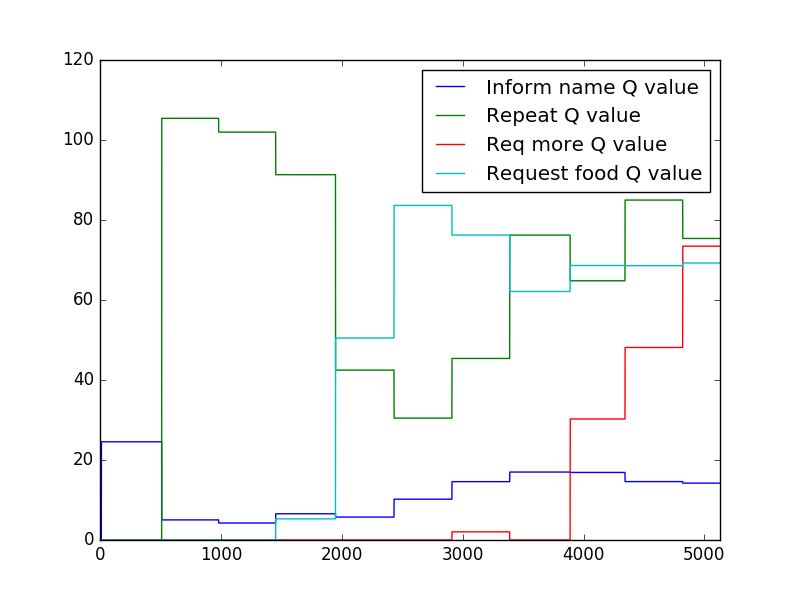
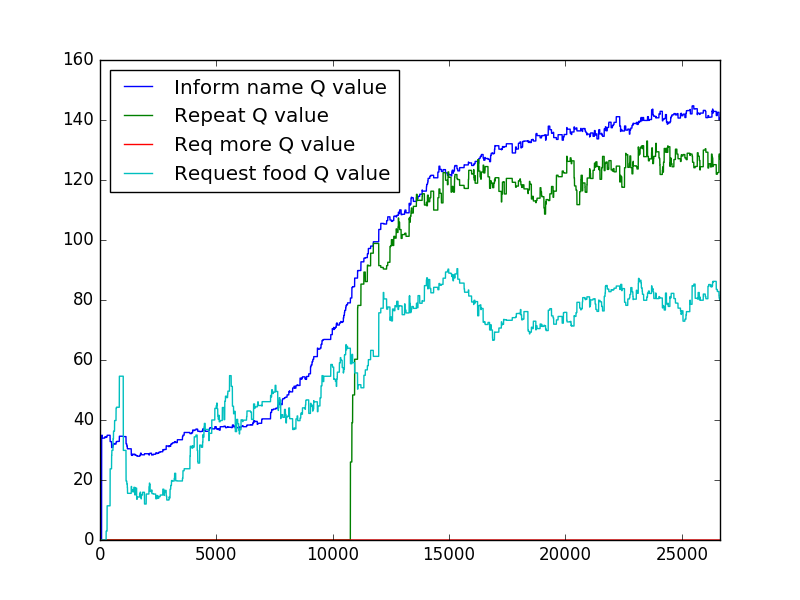
rl experiments

diff --git a/bot/agents/dqn.py b/bot/agents/dqn.py
@@ -21,19 +21,19 @@ class DoubleDQN:
 
         self.n_actions = kwargs.get('n_actions')
         self.n_features = kwargs.get('n_features')
-        self.lr = kwargs.get('learning_rate', 0.01)
-        self.gamma = kwargs.get('reward_decay', 0.9)
-        self.epsilon_max = kwargs.get('e_greedy', 1)
-        self.batch_size = kwargs.get('batch_size', 640)
+        self.lr = kwargs.get('learning_rate', 0.0001)
+        self.gamma = kwargs.get('reward_decay', 0.99)
+        self.epsilon_max = kwargs.get('e_greedy', 0.9)
+        self.batch_size = kwargs.get('batch_size', 128)
         self.memory_size = kwargs.get('memory_size', 10000)
-        self.epsilon_increment = kwargs.get('e_greedy_increment', 1e-2*2)
-        self.replace_target_iter = kwargs.get('replace_target_iter', 400)
+        self.epsilon_increment = kwargs.get('e_greedy_increment', 1e-5)
+        self.replace_target_iter = kwargs.get('replace_target_iter', 100)
         self.epsilon = 0.5
         self.learn_step_counter = 0
         self.memory_counter = 0
         self.random_state = kwargs.get('random_state')
         
-        self.double_q = kwargs.get('double_q', True)    # decide to use double q or not
+        self.double_q = kwargs.get('double_q', False)    # decide to use double q or not
         self.memory = np.zeros((self.memory_size, self.n_features*2+2))
 
         sess = kwargs.get('sess')
@@ -50,8 +50,8 @@ class DoubleDQN:
     def _build_net(self):
         def build_layers(s, w_initializer, b_initializer):
             dense = tf.layers.dense(inputs=s, units=80, activation=tf.nn.relu, kernel_initializer=w_initializer, bias_initializer=b_initializer)
-            #dense = tf.layers.dense(inputs=dense, units=150, activation=tf.nn.relu, kernel_initializer=w_initializer, bias_initializer=b_initializer)
-           # dense = tf.layers.dense(inputs=dense, units=100, activation=tf.nn.relu, kernel_initializer=w_initializer, bias_initializer=b_initializer)
+            dense = tf.layers.dense(inputs=dense, units=80, activation=tf.nn.relu, kernel_initializer=w_initializer, bias_initializer=b_initializer)
+            #dense = tf.layers.dense(inputs=dense, units=100, activation=tf.nn.relu, kernel_initializer=w_initializer, bias_initializer=b_initializer)
             dense = tf.layers.dense(inputs=dense, units=self.n_actions, activation=tf.nn.relu, kernel_initializer=w_initializer, bias_initializer=b_initializer)
             return dense
 
@@ -101,7 +101,7 @@ class DoubleDQN:
         self.memory_counter += 1
 
     def _init_replace_ops(self):
-        tau = 1
+        tau = 0.05
         tfVars = tf.trainable_variables()
         total_vars = len(tfVars)
         op_holder = []
@@ -131,40 +131,40 @@ class DoubleDQN:
 
         if self.learn_step_counter % self.replace_target_iter == 0 and self.learn_step_counter>0:
             self._replace_target_params()
-            for i in range(10):
-                if self.memory_counter > self.memory_size:
-                    sample_index = self.random_state.choice(self.memory_size, size=self.batch_size)
-                else:
-                    sample_index = self.random_state.choice(self.memory_counter, size=self.batch_size)
 
-                sample_index = list(set(sample_index))
-                batch_memory = self.memory[sample_index, :]
+        if self.memory_counter > self.memory_size:
+            sample_index = self.random_state.choice(self.memory_size, size=self.batch_size)
+        else:
+            sample_index = self.random_state.choice(self.memory_counter, size=self.batch_size)
 
-                q_next, q_eval4next = self.sess.run(
-                    [self.q_next, self.q_eval],
-                    feed_dict={self.s_: batch_memory[:, -self.n_features:],    # next observation
-                               self.s: batch_memory[:, -self.n_features:]})    # next observation
-                q_eval = self.sess.run(self.q_eval, {self.s: batch_memory[:, :self.n_features]})
+        sample_index = list(set(sample_index))
+        batch_memory = self.memory[sample_index, :]
 
-                q_target = q_eval.copy()
+        q_next, q_eval4next = self.sess.run(
+            [self.q_next, self.q_eval],
+            feed_dict={self.s_: batch_memory[:, -self.n_features:],    # next observation
+                       self.s: batch_memory[:, -self.n_features:]})    # next observation
+        q_eval = self.sess.run(self.q_eval, {self.s: batch_memory[:, :self.n_features]})
 
-                eval_act_index = batch_memory[:, self.n_features].astype(int)
-                reward = batch_memory[:, self.n_features + 1]
+        q_target = q_eval.copy()
 
-                if self.double_q:
-                    max_act4next = np.argmax(q_eval4next, axis=1)        # the action that brings the highest value is evaluated by q_eval
-                    selected_q_next = q_next[np.arange(q_target.shape[0]), max_act4next]  # Double DQN, select q_next depending on above actions
-                else:
-                    selected_q_next = np.max(q_next, axis=1)    # the natural DQN
+        eval_act_index = batch_memory[:, self.n_features].astype(int)
+        reward = batch_memory[:, self.n_features + 1]
 
-                q_target[np.arange(q_target.shape[0]), eval_act_index] = reward + self.gamma * selected_q_next
+        if self.double_q:
+            max_act4next = np.argmax(q_eval4next, axis=1)        # the action that brings the highest value is evaluated by q_eval
+            selected_q_next = q_next[np.arange(q_target.shape[0]), max_act4next]  # Double DQN, select q_next depending on above actions
+        else:
+            selected_q_next = np.max(q_next, axis=1)    # the natural DQN
 
-                _, self.cost = self.sess.run([self._train_op, self.loss],
-                                             feed_dict={self.s: batch_memory[:, :self.n_features],
-                                                        self.q_target: q_target})
-                self.cost_his.append(self.cost)
+        q_target[np.arange(q_target.shape[0]), eval_act_index] = reward + self.gamma * selected_q_next
 
-            self.epsilon = self.epsilon + self.epsilon_increment if self.epsilon < self.epsilon_max else self.epsilon_max
+        _, self.cost = self.sess.run([self._train_op, self.loss],
+                                     feed_dict={self.s: batch_memory[:, :self.n_features],
+                                                self.q_target: q_target})
+        self.cost_his.append(self.cost)
+
+        self.epsilon = self.epsilon + self.epsilon_increment if self.epsilon < self.epsilon_max else self.epsilon_max
         self.learn_step_counter += 1
 
     def save(self, filepath):

diff --git a/bot/agents/rl_agent.py b/bot/agents/rl_agent.py
@@ -159,31 +159,31 @@ class RLAgent(Agent):
             variants = self.content_manager.available_results(self.inform_slots, self.slot_restrictions)
 
         result = []
-        for i in range(1, 2):
-            history = self.history[-i] if len(self.history)>=i else None
-
-            last_user_actions = [] if history is None else history['user_action']
-            last_agent_actions = [] if history is None else history['agent_action']
-
-            user_acts = [[action for action, slot_name, slot_value in last_user_actions], 'user_act']
-            user_act_slots = [[action +('_'+slot_name if slot_name is not None else '') for action, slot_name, slot_value in last_user_actions], 'user_act_slots']
-            agent_acts = [[action for action, slot_name, slot_value in last_agent_actions], 'agent_act']
-            agent_act_slots = [[action +('_'+slot_name if slot_name is not None else '') for action, slot_name, slot_value in last_agent_actions], 'agent_act_slots']
-
-            for data, binarizer_name in [user_acts, user_act_slots, agent_acts, agent_act_slots]:
-                if len(data)==0:
-                    data.append('empty')
-                result.extend(np.max(self.binarizers[binarizer_name].transform(data), axis=0))
-
-            # Last agent action full
-            if i==1:
-                action_full = '__'.join(agent_act_slots[0])
-                action_full_features = list(range(len(self.binarizers['agent_act_full'])))
-                if action_full in self.binarizers['agent_act_full']:
-                    action_full_features[self.binarizers['agent_act_full'][action_full]] = 1
-
-                result.extend(action_full_features)
-
+        # for i in range(1, 2):
+        #     history = self.history[-i] if len(self.history)>=i else None
+        #
+        #     last_user_actions = [] if history is None else history['user_action']
+        #     last_agent_actions = [] if history is None else history['agent_action']
+        #
+        #     user_acts = [[action for action, slot_name, slot_value in last_user_actions], 'user_act']
+        #     user_act_slots = [[action +('_'+slot_name if slot_name is not None else '') for action, slot_name, slot_value in last_user_actions], 'user_act_slots']
+        #     agent_acts = [[action for action, slot_name, slot_value in last_agent_actions], 'agent_act']
+        #     agent_act_slots = [[action +('_'+slot_name if slot_name is not None else '') for action, slot_name, slot_value in last_agent_actions], 'agent_act_slots']
+        #
+        #     for data, binarizer_name in [user_acts, user_act_slots, agent_acts, agent_act_slots]:
+        #         if len(data)==0:
+        #             data.append('empty')
+        #         result.extend(np.max(self.binarizers[binarizer_name].transform(data), axis=0))
+        #
+        #     # Last agent action full
+        #     if i==1:
+        #         action_full = '__'.join(agent_act_slots[0])
+        #         action_full_features = list(range(len(self.binarizers['agent_act_full'])))
+        #         if action_full in self.binarizers['agent_act_full']:
+        #             action_full_features[self.binarizers['agent_act_full'][action_full]] = 1
+        #
+        #         result.extend(action_full_features)
+        #
         constraint_slots = [list(self.inform_slots.keys()), 'user_constraint_slots']
         user_request_slots = [list(self.request_slots), 'user_request_slots']
         proposed_slots = [list(self.proposed_slots.keys()), 'all_slots']
@@ -235,8 +235,9 @@ class RLAgent(Agent):
     def reward(self, user_actions, user_state):
         if user_state['done']:
             if user_state['failed']:
-                return 0
-            return 0
+                return -100
+
+            return 30
 
         state_turn_begin = self.history[-1]['agent_state']
         user_requested_slot_failed = len([s for s in state_turn_begin['request_slots'] if s not in self.last_inform_slots()])>0 and 'name' in state_turn_begin['proposed_slots']
@@ -246,7 +247,7 @@ class RLAgent(Agent):
             result = -5
             #print('user_requested_slot_failed')
 
-        result -= len(user_state['error_slots']) * 20
+        #result -= len(user_state['error_slots']) * 20
 
         #reqalts_exists = any([a[0] == 'reqalts' for a in user_actions])
         #if reqalts_exists:
@@ -254,7 +255,7 @@ class RLAgent(Agent):
 
         for action, slot_name, slot_value in user_actions:
             act_slot = action + ('_' + slot_name if slot_name is not None else '')
-            result -= self.user_act_slot_dict[act_slot]*2
+            result -= self.user_act_slot_dict[act_slot]*5
 
         return result
 

diff --git a/bot/usersims/sl_usersim.py b/bot/usersims/sl_usersim.py
@@ -244,7 +244,9 @@ class SupervisedUserSimulator(UserSimulator):
                 if slot_name in self.state['filled_slots']:
                     self.state['filled_slots'].remove(slot_name)
             elif action == 'reqalts':
-                self.state['filled_slots'].clear()
+                for key in list(self.state['filled_slots']):
+                    if key in self.goal['request-slots']:
+                        self.state['filled_slots'].remove(key)
 
         self.history[-1]['user_action'] = user_actions
         self.history[-1]['state_user'] = deepcopy(self.state)
@@ -323,7 +325,7 @@ class SupervisedUserSimulator(UserSimulator):
 
                     if slot_name == 'food' and any('food' in d for d in self.state['no_data_requests']) and 'alt_constraints' in self.goal:
                         slot_value = self.goal['alt_constraints'][1]
-                    elif 'reqalts' in pred_string and 'alt_constraints' in self.goal:
+                    elif 'reqalts' in pred_string and 'alt_constraints' in self.goal and slot_name=='food':
                         slot_value = self.goal['alt_constraints'][1]
 
                 else:

diff --git a/bot/train.py b/bot/train.py
@@ -13,7 +13,7 @@ nlg = NlgPattern(content_manager)
 nlu = NluPattern(settings.DSTC_PATH)
 binarizers = pickle.load(open(settings.SL_BINARIZERS_PATH, 'rb'))
 
-max_turn = 5
+max_turn = 10
 user = SupervisedUserSimulator(content_manager, nlg, settings.SL_US_MODEL_PATH, binarizers, max_turn,
                                print_goal=True)
 #user = ConsoleUserSimulator(content_manager, nlg)

diff --git a/bot/agents/agent.py b/bot/agents/agent.py
@@ -32,6 +32,7 @@ class Agent:
                     self.request_slots.remove(slot_name)
 
 
+
     def initialize_episode(self):
         """ Initialize a new episode (dialog), flush the current state and tracked slots """
         self.state = {
